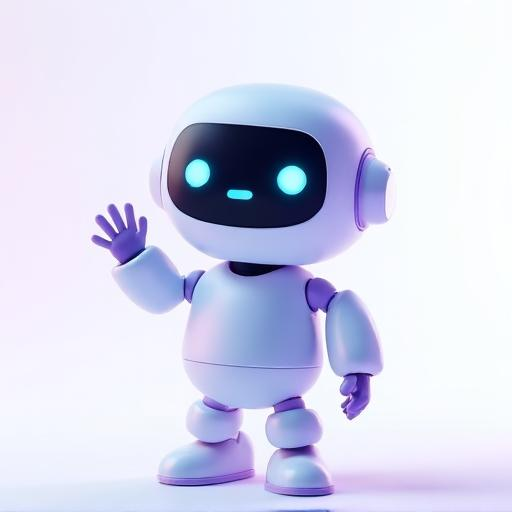
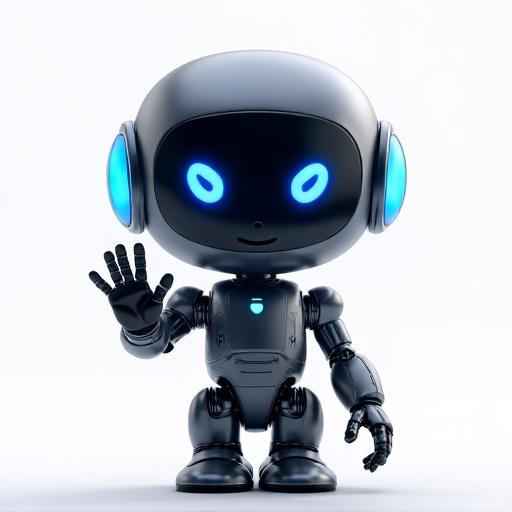
Refactor: Improve AURA chat button design

diff --git a/src/components/ChatWidget.tsx b/src/components/ChatWidget.tsx
@@ -1,6 +1,6 @@
 import { useState } from "react";
 import ChatWindow from "./ChatWindow";
-import auraAvatar from "@/assets/aura-avatar-clean.png";
+import auraAvatar from "@/assets/aura-avatar.png";
 
 const ChatWidget = () => {
   const [isOpen, setIsOpen] = useState(false);
@@ -10,7 +10,7 @@ const ChatWidget = () => {
       {!isOpen && (
         <button
           onClick={() => setIsOpen(true)}
-          className="fixed bottom-6 right-6 z-50 w-[80px] h-[80px] rounded-full bg-gradient-to-br from-blue-500 to-indigo-600 shadow-[0_0_20px_rgba(96,165,250,0.4)] flex items-center justify-center hover:scale-105 hover:shadow-[0_0_30px_rgba(96,165,250,0.6)] transition-all duration-300 overflow-hidden animate-float"
+          className="fixed bottom-6 right-6 z-50 w-[80px] h-[80px] rounded-full bg-[#0f172a]/70 backdrop-blur-md shadow-[0_0_20px_rgba(96,165,250,0.3)] flex items-center justify-center hover:shadow-[0_0_30px_rgba(96,165,250,0.5)] transition-shadow duration-300 overflow-hidden border border-white/10"
           aria-label="Abrir chat con AURA"
         >
           <img 

diff --git a/src/index.css b/src/index.css
@@ -160,26 +160,27 @@ All colors MUST be HSL.
   /* Gentle wave animation - only simulates hand waving, very subtle */
   @keyframes gentleWave {
     0% { 
-      transform: translateX(0px) rotate(0deg); 
+      transform: rotate(0deg); 
     }
-    3% { 
-      transform: translateX(1px) rotate(2deg); 
+    2% { 
+      transform: rotate(3deg); 
+    }
+    4% { 
+      transform: rotate(-3deg); 
     }
     6% { 
-      transform: translateX(-1px) rotate(-2deg); 
+      transform: rotate(3deg); 
     }
-    9% { 
-      transform: translateX(1px) rotate(2deg); 
-    }
-    12% { 
-      transform: translateX(0px) rotate(0deg); 
+    8% { 
+      transform: rotate(0deg); 
     }
     100% { 
-      transform: translateX(0px) rotate(0deg); 
+      transform: rotate(0deg); 
     }
   }
 
   .animate-gentle-wave {
-    animation: gentleWave 8s ease-in-out infinite;
+    animation: gentleWave 6s ease-in-out infinite;
+    transform-origin: 70% 70%;
   }
 }

diff --git a/src/components/ChatWindow.tsx b/src/components/ChatWindow.tsx
@@ -4,7 +4,7 @@ import { Button } from "./ui/button";
 import { Input } from "./ui/input";
 import MessageBubble from "./MessageBubble";
 import { useToast } from "@/hooks/use-toast";
-import auraAvatar from "@/assets/aura-avatar-clean.png";
+import auraAvatar from "@/assets/aura-avatar.png";
 
 type Message = {
   role: "user" | "assistant";

diff --git a/src/components/MessageBubble.tsx b/src/components/MessageBubble.tsx
@@ -1,7 +1,7 @@
 import { useRef, useState, useEffect } from "react";
 import { ChevronLeft, ChevronRight } from "lucide-react";
 import ProductCard from "./ProductCard";
-import auraAvatar from "@/assets/aura-avatar-clean.png";
+import auraAvatar from "@/assets/aura-avatar.png";
 
 type Message = {
   role: "user" | "assistant";
